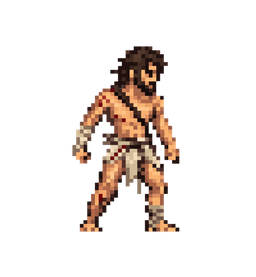
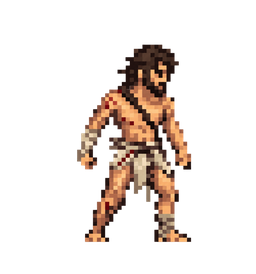
Fixing sprite framing - stage 1

Changed region(s): [[0.2812, 0.146, 0.75, 0.9051]]

diff --git a/source/core/src/main/com/csse3200/game/entities/factories/PlayerFactory.java b/source/core/src/main/com/csse3200/game/entities/factories/PlayerFactory.java
@@ -62,6 +62,7 @@ public class PlayerFactory {
     PhysicsUtils.setScaledCollider(player, 0.6f, 0.3f);
     player.getComponent(ColliderComponent.class).setDensity(1.5f);
     player.getComponent(AnimationRenderComponent.class).scaleEntity();
+    player.setScale(1.5f, 1.5f);
     return player;
   }
 
